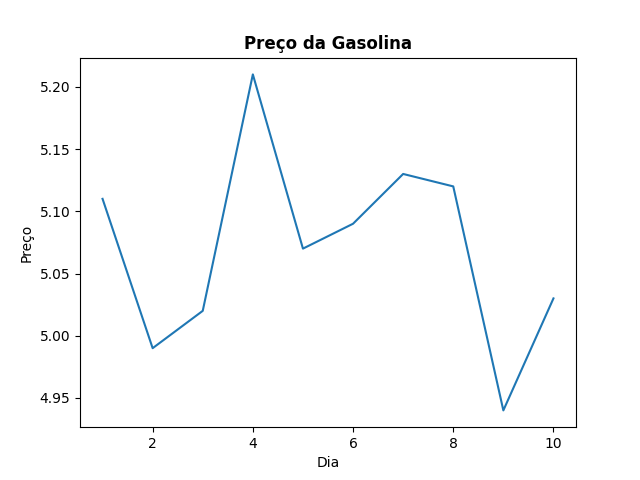
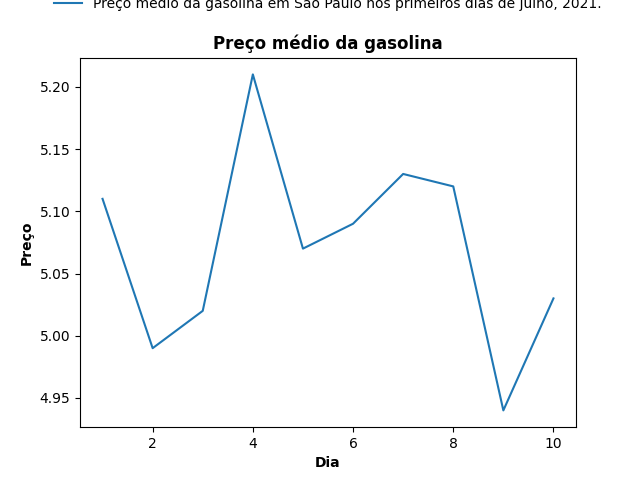
Atualização no gráfico do preço da gasolina

diff --git a/gasolina.py b/gasolina.py
@@ -1,0 +1,15 @@
+import pandas as pd
+import matplotlib.pyplot as plt
+import seaborn as sns
+
+df = pd.read_csv('gasolina.csv')
+grafico = sns.lineplot(data = df, x='dia', y= 'venda')
+grafico.set_title('Preço médio da gasolina', fontweight = 'bold')
+grafico.legend(['Preço médio da gasolina em São Paulo nos primeiros dias de julho, 2021.'], 
+               ncol=5,
+               loc= 'upper center',
+               bbox_to_anchor=(0.5, 1.2),
+               frameon= False,)
+grafico.set_xlabel('Dia', fontweight= 'bold')
+grafico.set_ylabel('Preço', fontweight= 'bold')
+plt.savefig('gasolina.png')
